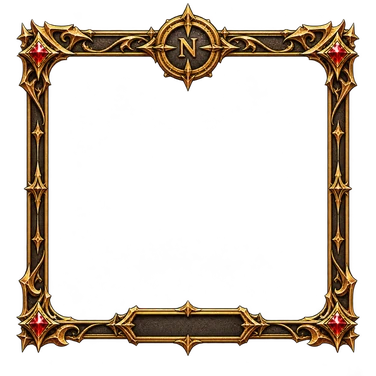
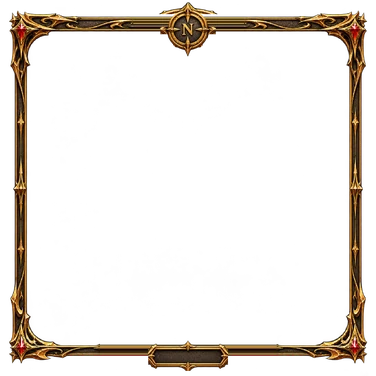
Тонкая рамка навигационной карты: полосы ужаты, компас и табличка сохранены, карта внутри крупнее
Claude-Session: https://claude.ai/code/session_01AmWdLgRH5KkZouVun3YtrH

diff --git a/public/css/style.css b/public/css/style.css
@@ -1035,12 +1035,11 @@ canvas.skin { object-fit: contain; }
 .sk-card p { margin: 5px 0 0; color: #e8dcc0; font-size: 13px; line-height: 1.35; }
 .sk-card .nw { white-space: nowrap; }
 
-/* Навигационная карта: нарисованная рамка (assets/ui/minimap_frame.webp), карта — в её окне, название зоны — на табличке внизу */
-.mm-wrap { position: relative; flex: none; width: 112px; height: 112px; cursor: pointer; margin: -8px -6px -6px 0; }
-#minimap { position: absolute; left: 12.8%; top: 15%; width: 74.2% !important; height: 70.1% !important; border: none !important; border-radius: 2px !important; background: #0a0806; box-shadow: inset 0 0 8px rgba(0,0,0,.8); }
+/* Навигационная карта: нарисованная тонкая рамка (assets/ui/minimap_frame.webp, tools/minimap_frame_thin.py), карта — в её окне */
+.mm-wrap { position: relative; flex: none; width: 100px; height: 100px; cursor: pointer; margin: -6px -4px -4px 0; }
+#minimap { position: absolute; left: 7.1%; top: 8.3%; width: 85.8% !important; height: 83.5% !important; border: none !important; border-radius: 2px !important; background: #0a0806; box-shadow: inset 0 0 8px rgba(0,0,0,.8); }
 .mm-frame { position: absolute; inset: 0; width: 100%; height: 100%; pointer-events: none; filter: drop-shadow(0 3px 6px rgba(0,0,0,.7)); }
-.mm-name { position: absolute; left: 50%; top: 86.6%; transform: translate(-50%, -50%); max-width: 33%; white-space: nowrap; overflow: hidden; text-overflow: ellipsis;
-  font: 7px/9px Georgia, serif; color: #ffe7a8; text-shadow: 0 1px 1px #000; z-index: 2; pointer-events: none; }
+.mm-name { display: none; } /* табличка слишком мала для подписи: название зоны — на большой карте */
 .mm-big { display: flex; flex-direction: column; align-items: center; gap: 10px; }
 .mm-big canvas { border-radius: 10px; border: 3px solid #b8904a; box-shadow: 0 0 0 1px #1a1006, 0 6px 18px rgba(0,0,0,.7); background: #0a0806; max-width: 100%; }
 .mm-legend { display: flex; flex-wrap: wrap; justify-content: center; gap: 6px 14px; font-size: 13px; color: #e8dcc0; }
@@ -1050,5 +1049,6 @@ canvas.skin { object-fit: contain; }
 .lg-pl { background: #fff; } .lg-mob { background: #ff5040; width: 8px !important; height: 8px !important; }
 .lg-boss { background: #ff3a2a; border: 2px solid #ffd36a !important; } .lg-portal { background: #b77dff; box-shadow: 0 0 6px #b77dff; }
 .lg-place { background: #ffd36a; border-radius: 1px !important; transform: rotate(45deg); width: 9px !important; height: 9px !important; }
-#chatBtn { top: calc(110px + env(safe-area-inset-top)); }
-.target, .wave-badge { right: 122px; }
+#chatBtn { top: calc(102px + env(safe-area-inset-top)); }
+.target, .wave-badge { right: 110px; }
+.wave-badge { white-space: nowrap; overflow: hidden; text-overflow: ellipsis; }

diff --git a/tools/minimap_frame_thin.py b/tools/minimap_frame_thin.py
@@ -1,0 +1,38 @@
+import sys, numpy as np
+from PIL import Image
+src = Image.open(sys.argv[1]).convert('RGBA'); t = float(sys.argv[2]); out = sys.argv[3]
+A = np.asarray(src).astype(np.float32); N = A.shape[0]
+L, R, T, B = 161, 1091, 188, 1067  # окно карты в исходнике
+# 1) отдельно — компас (верх по центру) и табличка (низ по центру)
+def cut(x0, y0, x1, y1): return src.crop((x0, y0, x1, y1))
+comp = cut(468, 0, 788, 308); plate = cut(372, 985, 882, 1165)
+# у компаса оставляем только медальон и четыре луча, у таблички — саму табличку без кусков полосы по бокам
+def mask(im, keep):
+    a = np.asarray(im).copy(); h, w = a.shape[:2]; yy, xx = np.mgrid[0:h, 0:w]
+    a[..., 3] = (a[..., 3] * keep(xx, yy)).astype(np.uint8); return Image.fromarray(a, 'RGBA')
+comp = mask(comp, lambda x, y: (np.hypot(x - 160, y - 165) < 112) | ((abs(x - 160) < 26) & (abs(y - 165) < 150)) | ((abs(y - 165) < 20) & (abs(x - 160) < 150)))
+plate = mask(plate, lambda x, y: (x > 40) & (x < 470))
+# 2) убираем их с основы: участок полосы между ними заменяем соседним куском той же полосы
+base = A.copy()
+def patch(dst_x0, dst_x1, y0, y1, src_x0):
+    # ровная полоса: один гладкий столбец исходной рамки, повторённый по ширине
+    base[y0:y1, dst_x0:dst_x1] = A[y0:y1, src_x0:src_x0 + 1]
+patch(468, 788, 85, 200, 462); base[200:308, 468:788] = 0
+patch(372, 882, 1040, 1140, 366); base[985:1040, 372:882] = 0; base[1140:1165, 372:882] = 0
+# 3) сжимаем полосы по краям в t раз: новая координата → старая
+def mapping(lo, hi):
+    lo2, hi2 = lo * t, N - (N - hi) * t
+    xs = np.arange(N, dtype=np.float32)
+    old = np.where(xs < lo2, xs / t, np.where(xs > hi2, hi + (xs - hi2) / t, lo + (xs - lo2) * (hi - lo) / (hi2 - lo2)))
+    return np.clip(old, 0, N - 1).astype(int), lo2, hi2
+mx, L2, R2 = mapping(L, R); my, T2, B2 = mapping(T, B)
+thin = base[my][:, mx]
+img = Image.fromarray(thin.clip(0, 255).astype(np.uint8), 'RGBA')
+# 4) компас и табличку — обратно, уменьшенными, по центру своих полос
+k = 0.62
+c2 = comp.resize((int(comp.width * k), int(comp.height * k)), Image.LANCZOS)
+img.alpha_composite(c2, ((N - c2.width) // 2, max(0, int(T2 * 0.55 - c2.height * 0.55))))
+p2 = plate.resize((int(plate.width * k), int(plate.height * k)), Image.LANCZOS)
+img.alpha_composite(p2, ((N - p2.width) // 2, int(B2 + (N - B2) * 0.3 - p2.height * 0.5)))
+img.save(out)
+print('window', round(L2 / N * 100, 2), round(T2 / N * 100, 2), round((R2 - L2) / N * 100, 2), round((B2 - T2) / N * 100, 2), 'plate y', round((B2 + (N - B2) * 0.3) / N * 100, 2))
